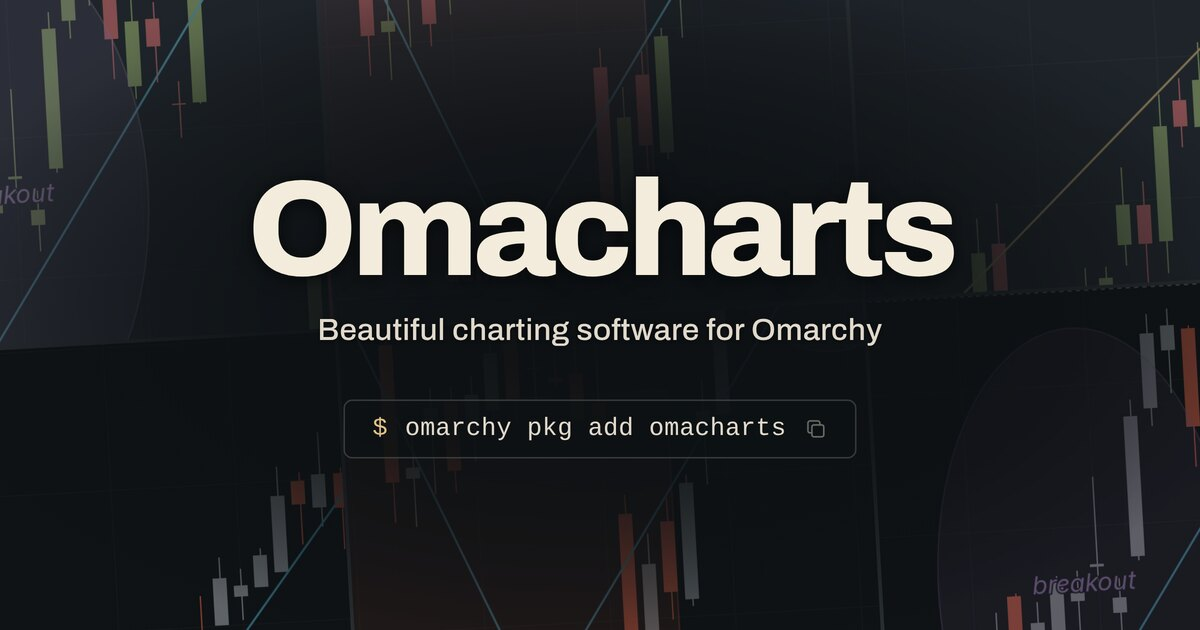
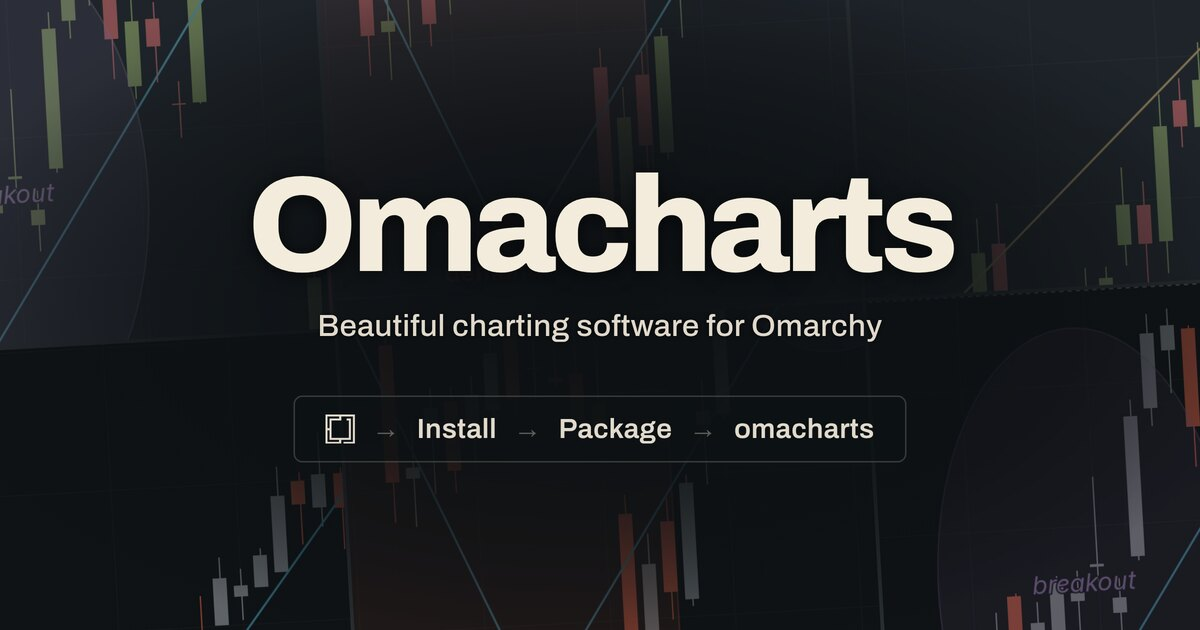
Install from the Omarchy menu (#66)

diff --git a/site/index.html b/site/index.html
@@ -14,7 +14,7 @@
 <meta property="og:url" content="https://omacharts.org/">
 <meta property="og:title" content="Omacharts">
 <meta property="og:description" content="Beautiful charting software for Omarchy.">
-<meta property="og:image" content="https://omacharts.org/social.jpg?v=2">
+<meta property="og:image" content="https://omacharts.org/social.jpg?v=5">
 <meta name="twitter:card" content="summary_large_image">
 
 <link rel="preconnect" href="https://fonts.googleapis.com">
@@ -30,11 +30,8 @@
     --ground: #0d1114;
     --bright: #f3ecdc;
     --soft:   rgba(243, 236, 220, .92);
-    --quiet:  rgba(243, 236, 220, .8);
     --amber:  #e2c285;
     --sans: "Archivo", system-ui, -apple-system, "Segoe UI", Roboto, sans-serif;
-    --mono: ui-monospace, SFMono-Regular, "SF Mono", Menlo, Consolas,
-            "Liberation Mono", monospace;
   }
 
   * { box-sizing: border-box; }
@@ -120,74 +117,59 @@
   }
 
   /* The install line is the one thing on the page a visitor is meant to take
-     away, so it looks like what it is: a prompt, in the terminal's own
-     letterforms. */
+     away, and on Omarchy the way in is the menu rather than a terminal: the
+     mark that opens it, as it sits in the top bar, then the entries to pick,
+     in order. */
   .install {
     margin: clamp(1.6rem, 3.4vw, 4rem) 0 0;
-    display: inline-flex;
+    display: flex;
+    justify-content: center;
     align-items: center;
-    gap: .7em;
+    gap: .6em;
     padding: .62em 1.1em;
     border: 1px solid rgba(243, 236, 220, .18);
     border-radius: .55rem;
     background: rgba(13, 17, 20, .62);
     color: var(--soft);
-    font-family: var(--mono);
-    font-size: clamp(.82rem, 1.15vw, 1.4rem);
+    font-size: min(clamp(.95rem, 1.3vw, 1.6rem), 3.8vw);
+    font-weight: 600;
     line-height: 1;
-    cursor: pointer;
-    transition: border-color .18s ease, background-color .18s ease;
-  }
-  .install:hover,
-  .install:focus-visible {
-    border-color: rgba(226, 194, 133, .55);
-    background: rgba(13, 17, 20, .78);
-  }
-  .install:focus-visible {
-    outline: 2px solid var(--amber);
-    outline-offset: 4px;
-  }
-  .install .prompt {
-    color: var(--amber);
-    user-select: none;
-  }
-  .install code {
-    font: inherit;
     letter-spacing: .01em;
     white-space: nowrap;
   }
-  /* Narrow enough and the command wraps rather than overflowing the phone. */
-  @media (max-width: 26rem) {
-    .install { gap: .5em; padding: .6em .8em; }
-    .install code { white-space: normal; }
-  }
-  /* The hint is a glyph rather than a word: a clipboard that turns into a
-     tick for a moment once the command is on it. Quiet until the line is
-     pointed at, so it reads as an affordance, not a second label. */
-  .install .hint {
+  /* The line never breaks: it is one path through the menu, so on a narrow
+     phone the whole line gets smaller instead (the 3.8vw above), and still
+     fits inside the page's gutters at 320px. */
+  .install .path,
+  .install .step {
     display: inline-flex;
+    align-items: center;
+    gap: inherit;
+  }
+  .install .then {
     color: var(--bright);
-    opacity: .4;
-    transition: opacity .18s ease, color .18s ease;
+    opacity: .35;
+    font-weight: 500;
   }
-  .install .hint svg {
-    width: .95em;
-    height: .95em;
-    fill: none;
-    stroke: currentColor;
-    stroke-width: 1.6;
-    stroke-linecap: round;
-    stroke-linejoin: round;
+  /* Omarchy's own mark, from the glyph its bar draws, a touch taller than
+     the capitals beside it, in the colour of the entries it opens. */
+  .install .menu {
+    display: block;
+    width: 1.05em;
+    height: 1.05em;
+    flex: none;
   }
-  .install:hover .hint,
-  .install:focus-visible .hint { opacity: .7; }
-  .install .done,
-  .install[data-copied] .clip { display: none; }
-  .install[data-copied] .done { display: block; }
-  .install[data-copied] .hint { color: var(--amber); opacity: 1; }
+  .sr {
+    position: absolute;
+    width: 1px;
+    height: 1px;
+    overflow: hidden;
+    clip-path: inset(50%);
+    white-space: nowrap;
+  }
 
   /* The repository is a mark in the corner rather than a second button in
-     the hero: quiet like the clipboard glyph, brighter when pointed at, and
+     the hero: quiet, brighter when pointed at, and
      a full finger's width to tap. */
   .repo {
     position: fixed;
@@ -216,7 +198,6 @@
 
   @media (prefers-reduced-motion: reduce) {
     .tagline a { transition: none; }
-    .install, .install .hint { transition: none; }
     .repo svg { transition: none; }
   }
 </style>
@@ -225,36 +206,18 @@
   <main>
     <h1>Omacharts</h1>
     <p class="tagline">Beautiful charting software for <a href="https://omarchy.org">Omarchy</a></p>
-    <button class="install" type="button" data-command="omarchy pkg add omacharts" title="Copy to clipboard">
-      <span class="prompt" aria-hidden="true">$</span>
-      <code>omarchy pkg add omacharts</code>
-      <span class="hint" role="img" aria-label="Copy to clipboard">
-        <svg class="clip" viewBox="0 0 24 24" aria-hidden="true"><rect x="8" y="8" width="12" height="12" rx="2"/><path d="M16 8V6a2 2 0 0 0-2-2H6a2 2 0 0 0-2 2v8a2 2 0 0 0 2 2h2"/></svg>
-        <svg class="done" viewBox="0 0 24 24" aria-hidden="true"><path d="M5 12.5l4.5 4.5L19 7.5"/></svg>
+    <p class="install">
+      <span class="sr">Install it from the Omarchy menu: open the menu</span>
+      <svg class="menu" viewBox="0 0 1024 1024" fill="currentColor" aria-hidden="true"><path d="M70 954H549V1024H0V0H1024V1024H626V954H954V70H70ZM884 884H140V140H551V210H210V814H814V210H736V140H884ZM471 884H549V954H471ZM473 70H551V140H473ZM0 473H210V551H0Z"/></svg>
+      <span class="path">
+        <span class="step"><span class="then" aria-hidden="true">→</span><span class="sr">, then </span>Install</span>
+        <span class="step"><span class="then" aria-hidden="true">→</span><span class="sr">, then </span>Package</span>
+        <span class="step"><span class="then" aria-hidden="true">→</span><span class="sr">, then </span>omacharts</span>
       </span>
-    </button>
+    </p>
   </main>
   <a class="repo" href="https://github.com/jorgemanrubia/omacharts" aria-label="Omacharts on GitHub" title="Omacharts on GitHub">
     <svg viewBox="0 0 16 16" aria-hidden="true"><path d="M8 0C3.58 0 0 3.58 0 8c0 3.54 2.29 6.53 5.47 7.59.4.07.55-.17.55-.38 0-.19-.01-.82-.01-1.49-2.01.37-2.53-.49-2.69-.94-.09-.23-.48-.94-.82-1.13-.28-.15-.68-.52-.01-.53.63-.01 1.08.58 1.23.82.72 1.21 1.87.87 2.33.66.07-.52.28-.87.51-1.07-1.78-.2-3.64-.89-3.64-3.95 0-.87.31-1.59.82-2.15-.08-.2-.36-1.02.08-2.12 0 0 .67-.21 2.2.82.64-.18 1.32-.27 2-.27.68 0 1.36.09 2 .27 1.53-1.04 2.2-.82 2.2-.82.44 1.1.16 1.92.08 2.12.51.56.82 1.27.82 2.15 0 3.07-1.87 3.75-3.65 3.95.29.25.54.73.54 1.48 0 1.07-.01 1.93-.01 2.2 0 .21.15.46.55.38A8.013 8.013 0 0 0 16 8c0-4.42-3.58-8-8-8z"/></svg>
   </a>
-  <script>
-    /* Progressive: with no clipboard and no script the command is still there
-       to read and select, which is all it has to be. */
-    const install = document.querySelector('.install');
-    const hint = install.querySelector('.hint');
-    install.addEventListener('click', async () => {
-      try {
-        await navigator.clipboard.writeText(install.dataset.command);
-      } catch {
-        return;
-      }
-      install.dataset.copied = '';
-      hint.setAttribute('aria-label', 'Copied');
-      setTimeout(() => {
-        delete install.dataset.copied;
-        hint.setAttribute('aria-label', 'Copy to clipboard');
-      }, 1600);
-    });
-  </script>
 </body>
 </html>

diff --git a/plugin/Service.qml b/plugin/Service.qml
@@ -15,6 +15,11 @@ Item {
   property var sections: []
   property var colors: null
   property string lastError: ""
+  // True once a poll could not start omacharts at all: the package has been
+  // removed and this folder outlived it, so the panel hides rather than
+  // reporting an error nobody can fix from the bar. The next poll that does
+  // start clears it, so a reinstall brings the widget back on its own.
+  property bool missing: false
   property double updatedAt: 0
   readonly property bool refreshing: watchlistProcess.running
 
@@ -26,10 +31,12 @@ Item {
 
   property string _output: ""
   property string _error: ""
+  property bool _started: false
 
   function refresh() {
     if (watchlistProcess.running) return
     watchlistProcess.command = ["omacharts", "watchlist", "--refresh"]
+    root._started = false
     watchlistProcess.running = true
   }
 
@@ -77,9 +84,18 @@ Item {
       waitForEnd: true
       onStreamFinished: root._error = text
     }
+    // A binary that is not there never starts: Quickshell emits neither
+    // started nor exited, and only drops running. That, not the wording of
+    // an error, is what tells a removed package apart from a failed refresh,
+    // which starts fine and exits non-zero with its reason on stderr.
+    onStarted: {
+      root._started = true
+      root.missing = false
+    }
+    onRunningChanged: if (!running && !root._started) root.missing = true
     onExited: function (code) {
       if (code !== 0) {
-        root.lastError = root._error.trim() || "omacharts is not on PATH"
+        root.lastError = root._error.trim() || "omacharts exited with code " + code
         return
       }
       var parsed = Model.parse(root._output)

diff --git a/plugin/Panel.qml b/plugin/Panel.qml
@@ -30,12 +30,18 @@ Panel {
   implicitWidth: button.implicitWidth
   implicitHeight: button.implicitHeight
 
+  // Gone with the package: the bar gives a hidden module no width, so there
+  // is no gap where it was, the way Omarchy's own update widget disappears.
+  readonly property bool gone: service.missing
+  visible: !gone
+
   // Stands in until the host has built the real one, so every binding below
   // can read the same shape rather than guarding for null.
   QtObject {
     id: dummyService
     property var sections: []
     property string lastError: ""
+    property bool missing: false
     property bool refreshing: false
     property double updatedAt: 0
     function refresh() {}
@@ -80,13 +86,16 @@ Panel {
   }
 
   onOpenedChanged: if (opened) service.refreshIfStale()
+  // A panel left open, or opened from a keybinding, would float over a bar
+  // with nothing in it to point at.
+  onGoneChanged: if (gone) close()
 
   IpcHandler {
     target: "jorgemanrubia.omacharts"
 
-    function open(): void { root.open() }
+    function open(): void { if (!root.gone) root.open() }
     function close(): void { root.close() }
-    function toggle(): void { root.toggle() }
+    function toggle(): void { if (!root.gone || root.opened) root.toggle() }
     function refresh(): void { root.service.refresh() }
   }
 

diff --git a/README.md b/README.md
@@ -54,13 +54,16 @@ Fast, beautiful charting software for [Omarchy](https://omarchy.org).
 ## Installing
 
 Omacharts lives in Omarchy's own package repository, which is already enabled
-on an Omarchy machine:
+on an Omarchy machine. Open the Omarchy menu with <kbd>Super</kbd> +
+<kbd>Space</kbd>, choose **Install → Package**, and pick **omacharts**.
+
+Or from a terminal:
 
 ```sh
 omarchy pkg add omacharts
 ```
 
-That puts the command on your path with the man page, shell completions and
+Either way, that puts the command on your path with the man page, shell completions and
 the agent skill, and `pacman -Syu` carries Omacharts along with the rest of
 the system.
 
@@ -76,6 +79,26 @@ makepkg -si
 
 To run it from a working tree instead — it rebuilds on every launch — use
 `./bin/install`.
+
+## Uninstalling
+
+Open the Omarchy menu with <kbd>Super</kbd> + <kbd>Space</kbd>, choose
+**Remove → Package**, and pick **omacharts**.
+
+Or from a terminal:
+
+```sh
+omarchy pkg drop omacharts
+```
+
+Removing the package hides the bar widget. To uninstall the widget too, run
+this before removing the package:
+
+```sh
+omacharts plugin uninstall
+```
+
+Your data stays in `~/.local/share/omacharts`; delete it for a clean slate.
 
 ## Data
 
